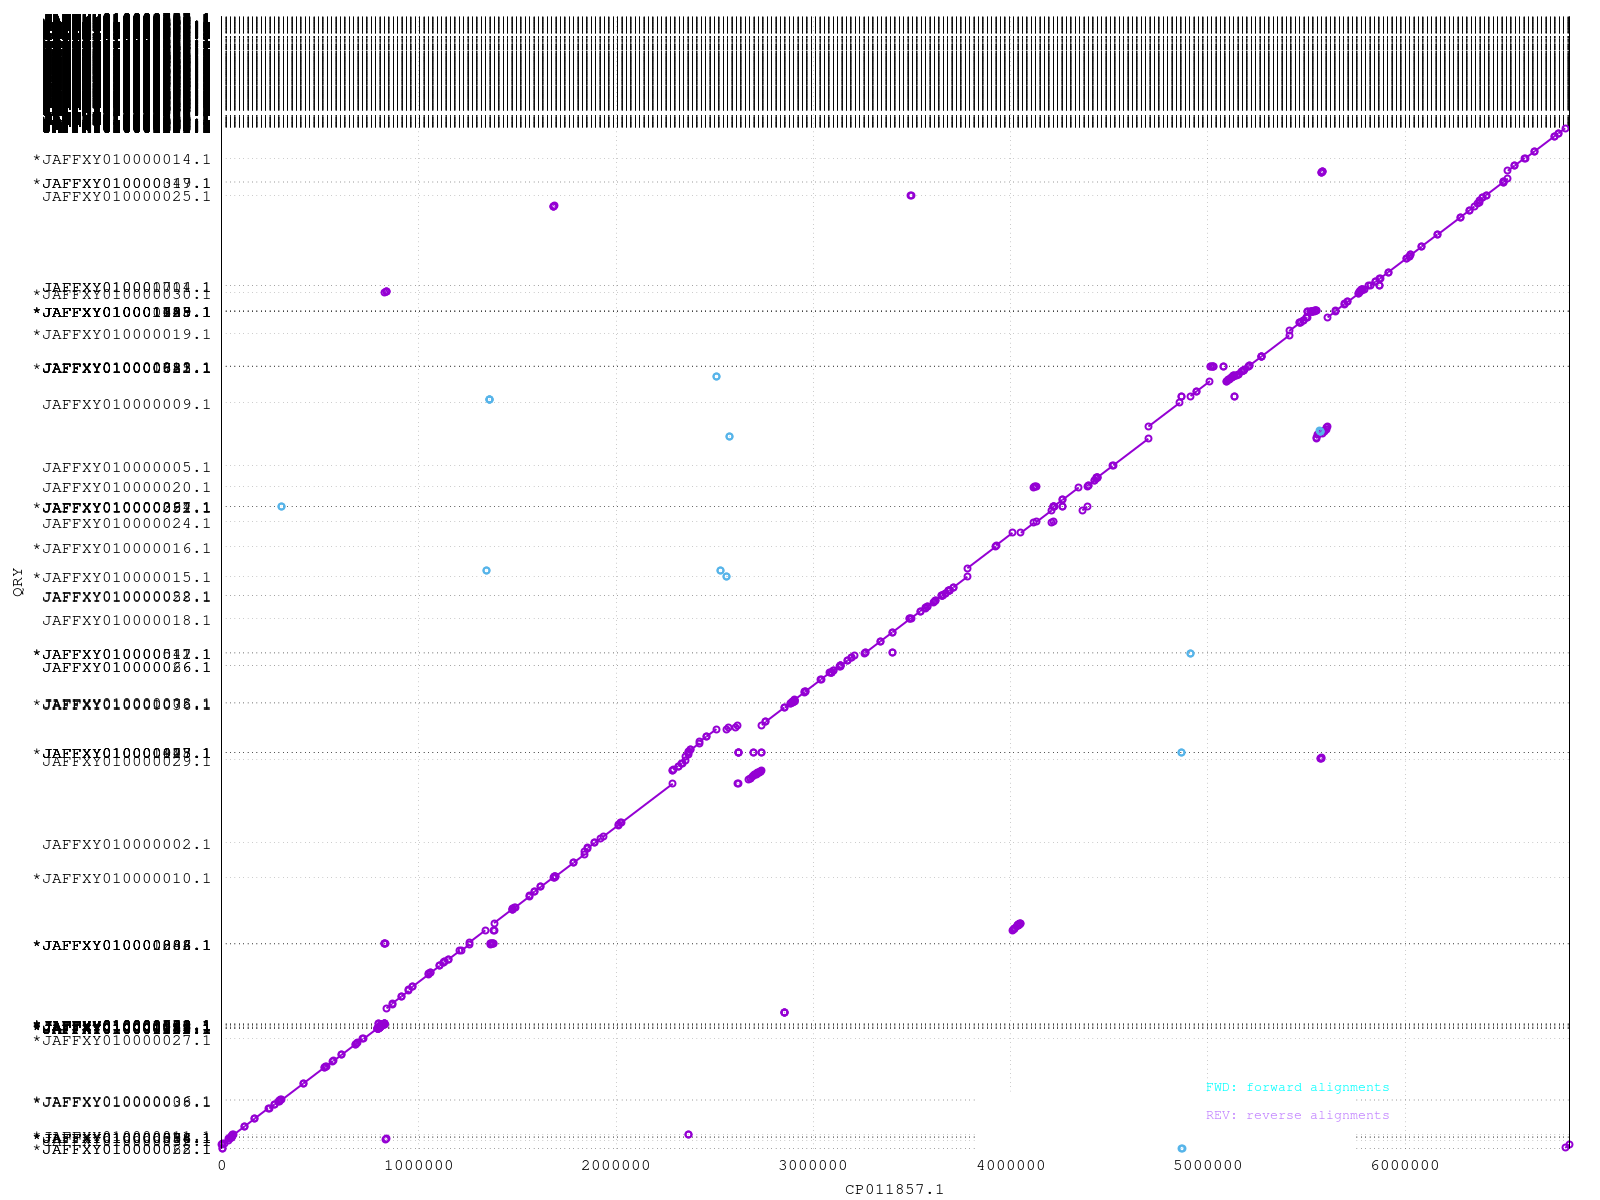
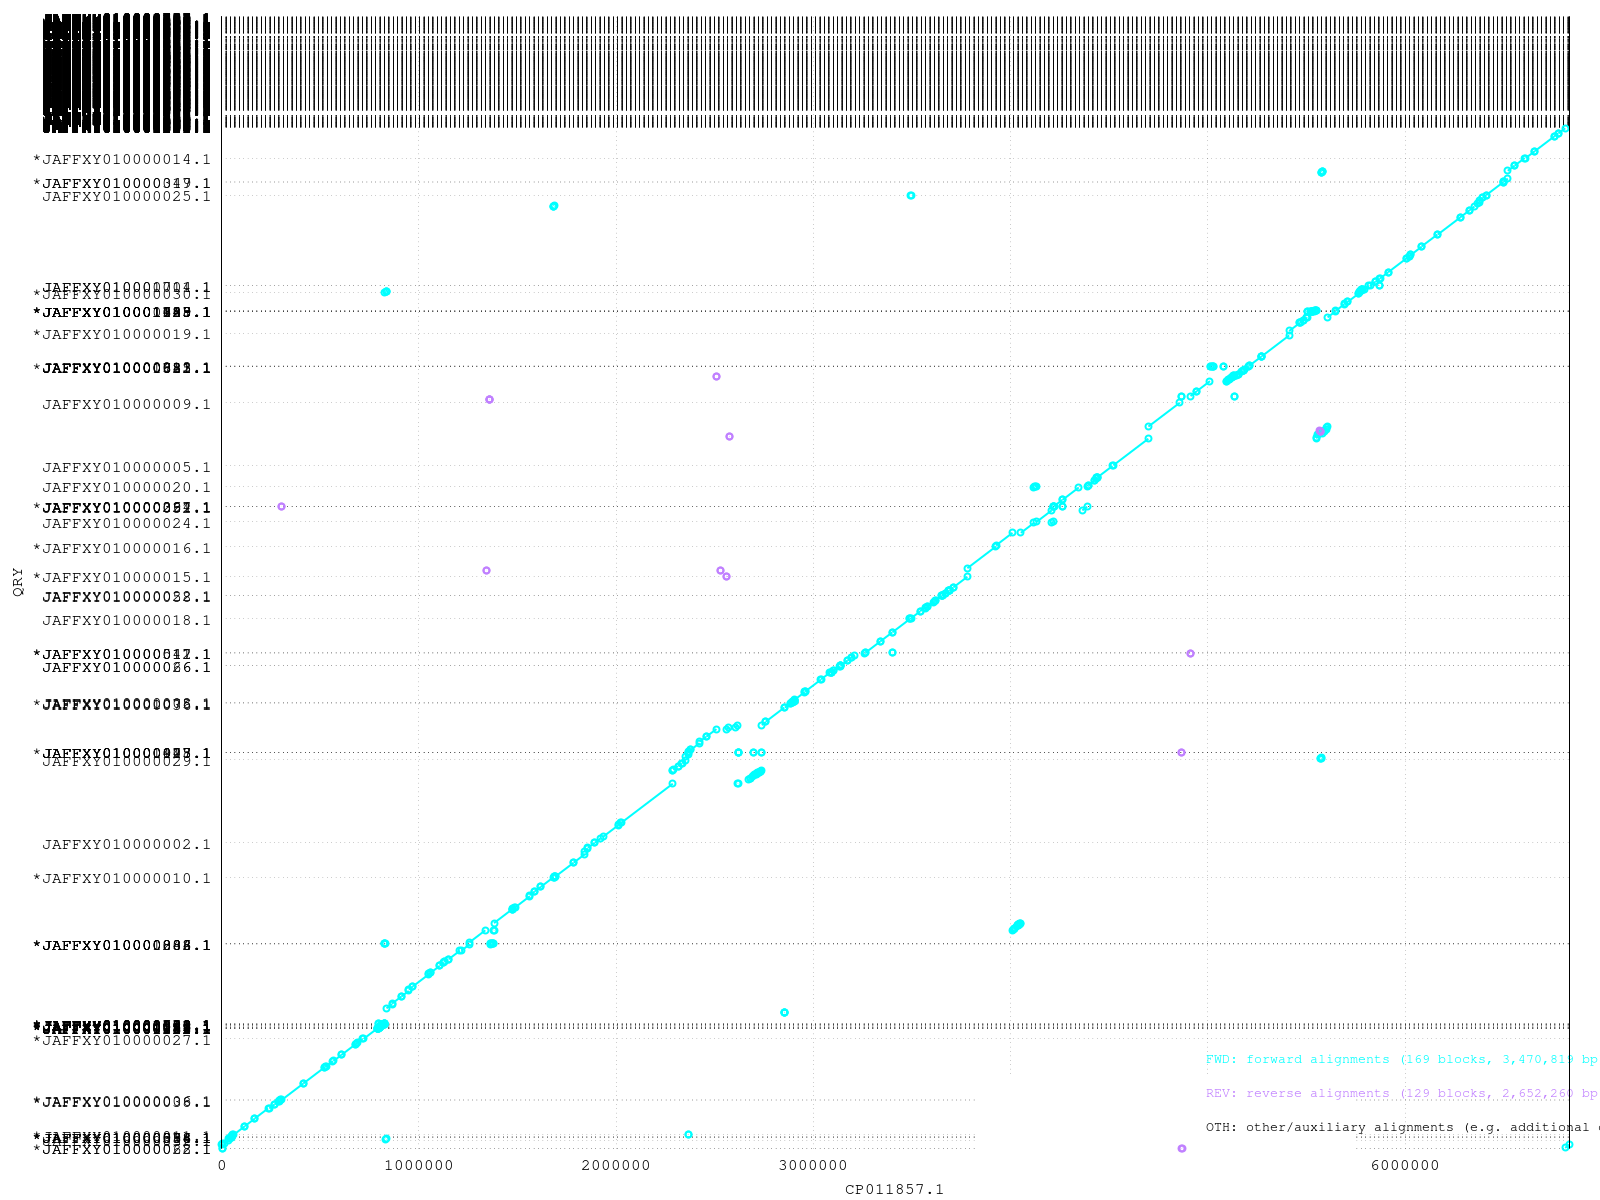
Add legend explanation and counts; sync pa_comparison.gp colors and regenerate PNG

diff --git a/README.md b/README.md
@@ -119,6 +119,18 @@ gnuplot ATCC_vs_ST_plot.gp
 
 **Plot Legend:**
 
+### Plot legend (colors, meaning and counts)
+
+- FWD (cyan): forward alignments; here 169 blocks covering 3,470,819 bp of the reference.
+- REV (purple): reverse/inverted alignments; here 129 blocks covering 2,652,260 bp of the reference.
+- OTH (black): other/auxiliary alignments or overlays (used as a placeholder in the script); 0 blocks in this run.
+
+Notes:
+- The plot line-styles have been explicitly set in `pa_comparison.gp` so plotted colors match the legend (ls 1 = cyan, ls 2 = purple, ls 3 = black).
+- "OTH" is a generic label for any additional alignment type or overlay plotted with the third line style; it is present as a placeholder so the legend can be extended without reformatting the plot.
+- The visual prominence of purple dots on the dotplot can be affected by placement (reverse matches are often scattered and visually distinct), overplotting, and color contrast — the numeric counts above show forward alignments still cover more bases in this comparison.
+
+
 
 ## 📚 References & Further Info
 
